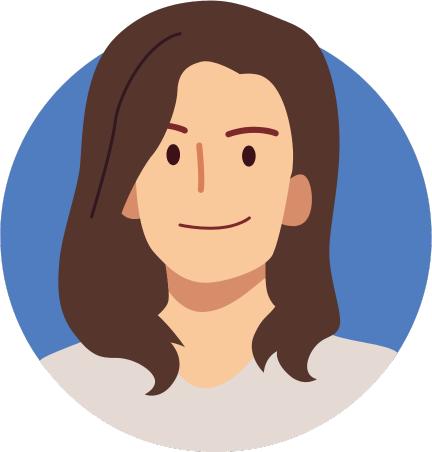
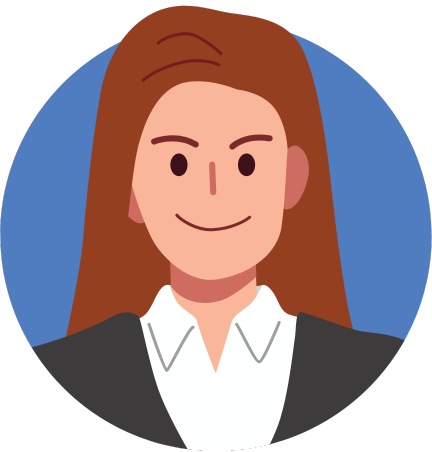
changes

diff --git a/contact_me_almaordonez/index.html b/contact_me_almaordonez/index.html
@@ -18,11 +18,11 @@
             </div>
             <div class="container-botones">
                 <div class="title-name">
-                    <h1>PAMELA PÉREZ</h1>
+                    <h1>ALMA ORDOÑEZ</h1>
                     <h2>ASESOR MÉDICO</h2>
                 </div>
                 <div class="container-data-button">
-                    <a href="https://wa.me/525514312977?text=Hola%2C%20buen%20día.%0AMe%20gustaría%20recibir%20información%20sobre%20la%20asesoría%20para%20seguros%20de%20gastos%20médicos%20mayores."
+                    <a href="https://wa.me/5580514429?text=Hola%2C%20buen%20día.%0AMe%20gustaría%20recibir%20información%20sobre%20la%20asesoría%20para%20seguros%20de%20gastos%20médicos%20mayores."
                         target="_blank" rel="noopener noreferrer">
                         Escríbeme un WhatsApp
                     </a>
@@ -36,16 +36,16 @@
                         Guarda mi contacto
                     </a>
 
-                    <a href="tel:+52555514312977" download="MiContacto.vcf">
-                        55 1431 2977
+                    <a href="tel:+525580514429" download="MiContacto.vcf">
+                        55 8051 4429
                     </a>
                 </div>
                 <div class="container-social">
-                    <a href="https://web.facebook.com/ppame.perez" target="_blank" class="social fb">
+                    <a href="https://web.facebook.com/" target="_blank" class="social fb">
                         <img src="./src/facebook.png" alt="Facebook">
                     </a>
 
-                    <a href="https://www.instagram.com/pamelaniltze/" target="_blank" class="social ig">
+                    <a href="https://www.instagram.com/" target="_blank" class="social ig">
                         <img src="./src/instagram.png" alt="Instagram">
                     </a>
                 </div>

diff --git a/contact_me_pamelaperez/index.html b/contact_me_pamelaperez/index.html
@@ -14,7 +14,7 @@
         <div class="up-img"></div>
         <div class="bottom-img">
             <div class="profile-picture">
-                <img src="./src/ProfilePhoto.png" alt="Foto de perfil" class="profile-img">
+                <img src="./src/ProfilePhoto1.png" alt="Foto de perfil" class="profile-img">
             </div>
             <div class="container-botones">
                 <div class="title-name">
@@ -27,7 +27,7 @@
                         Escríbeme un WhatsApp
                     </a>
 
-                    <a href="mailto:sumandovidamedic@gmail.com?subject=Información%20sobre%20seguros%20de%20gastos%20médicos%20mayores&body=Hola%2C%20buen%20día.%0A%0AMe%20gustaría%20recibir%20información%20sobre%20la%20asesoría%20médica%20que%20ofrecen.%0AGracias."
+                    <a href="mailto:medicaladvisors25@gmail.com?subject=Información%20sobre%20seguros%20de%20gastos%20médicos%20mayores&body=Hola%2C%20buen%20día.%0A%0AMe%20gustaría%20recibir%20información%20sobre%20la%20asesoría%20médica%20que%20ofrecen.%0AGracias."
                         target="_blank">
                         Envíame un correo
                     </a>

diff --git a/contact_me_pamelaperez/index.css b/contact_me_pamelaperez/index.css
@@ -196,6 +196,6 @@ a {
 @media (max-width: 768px) {
   .container-main-card {
     width: 100%;
-    height: 100vh;
+    height: 100svh;
   }
 }
